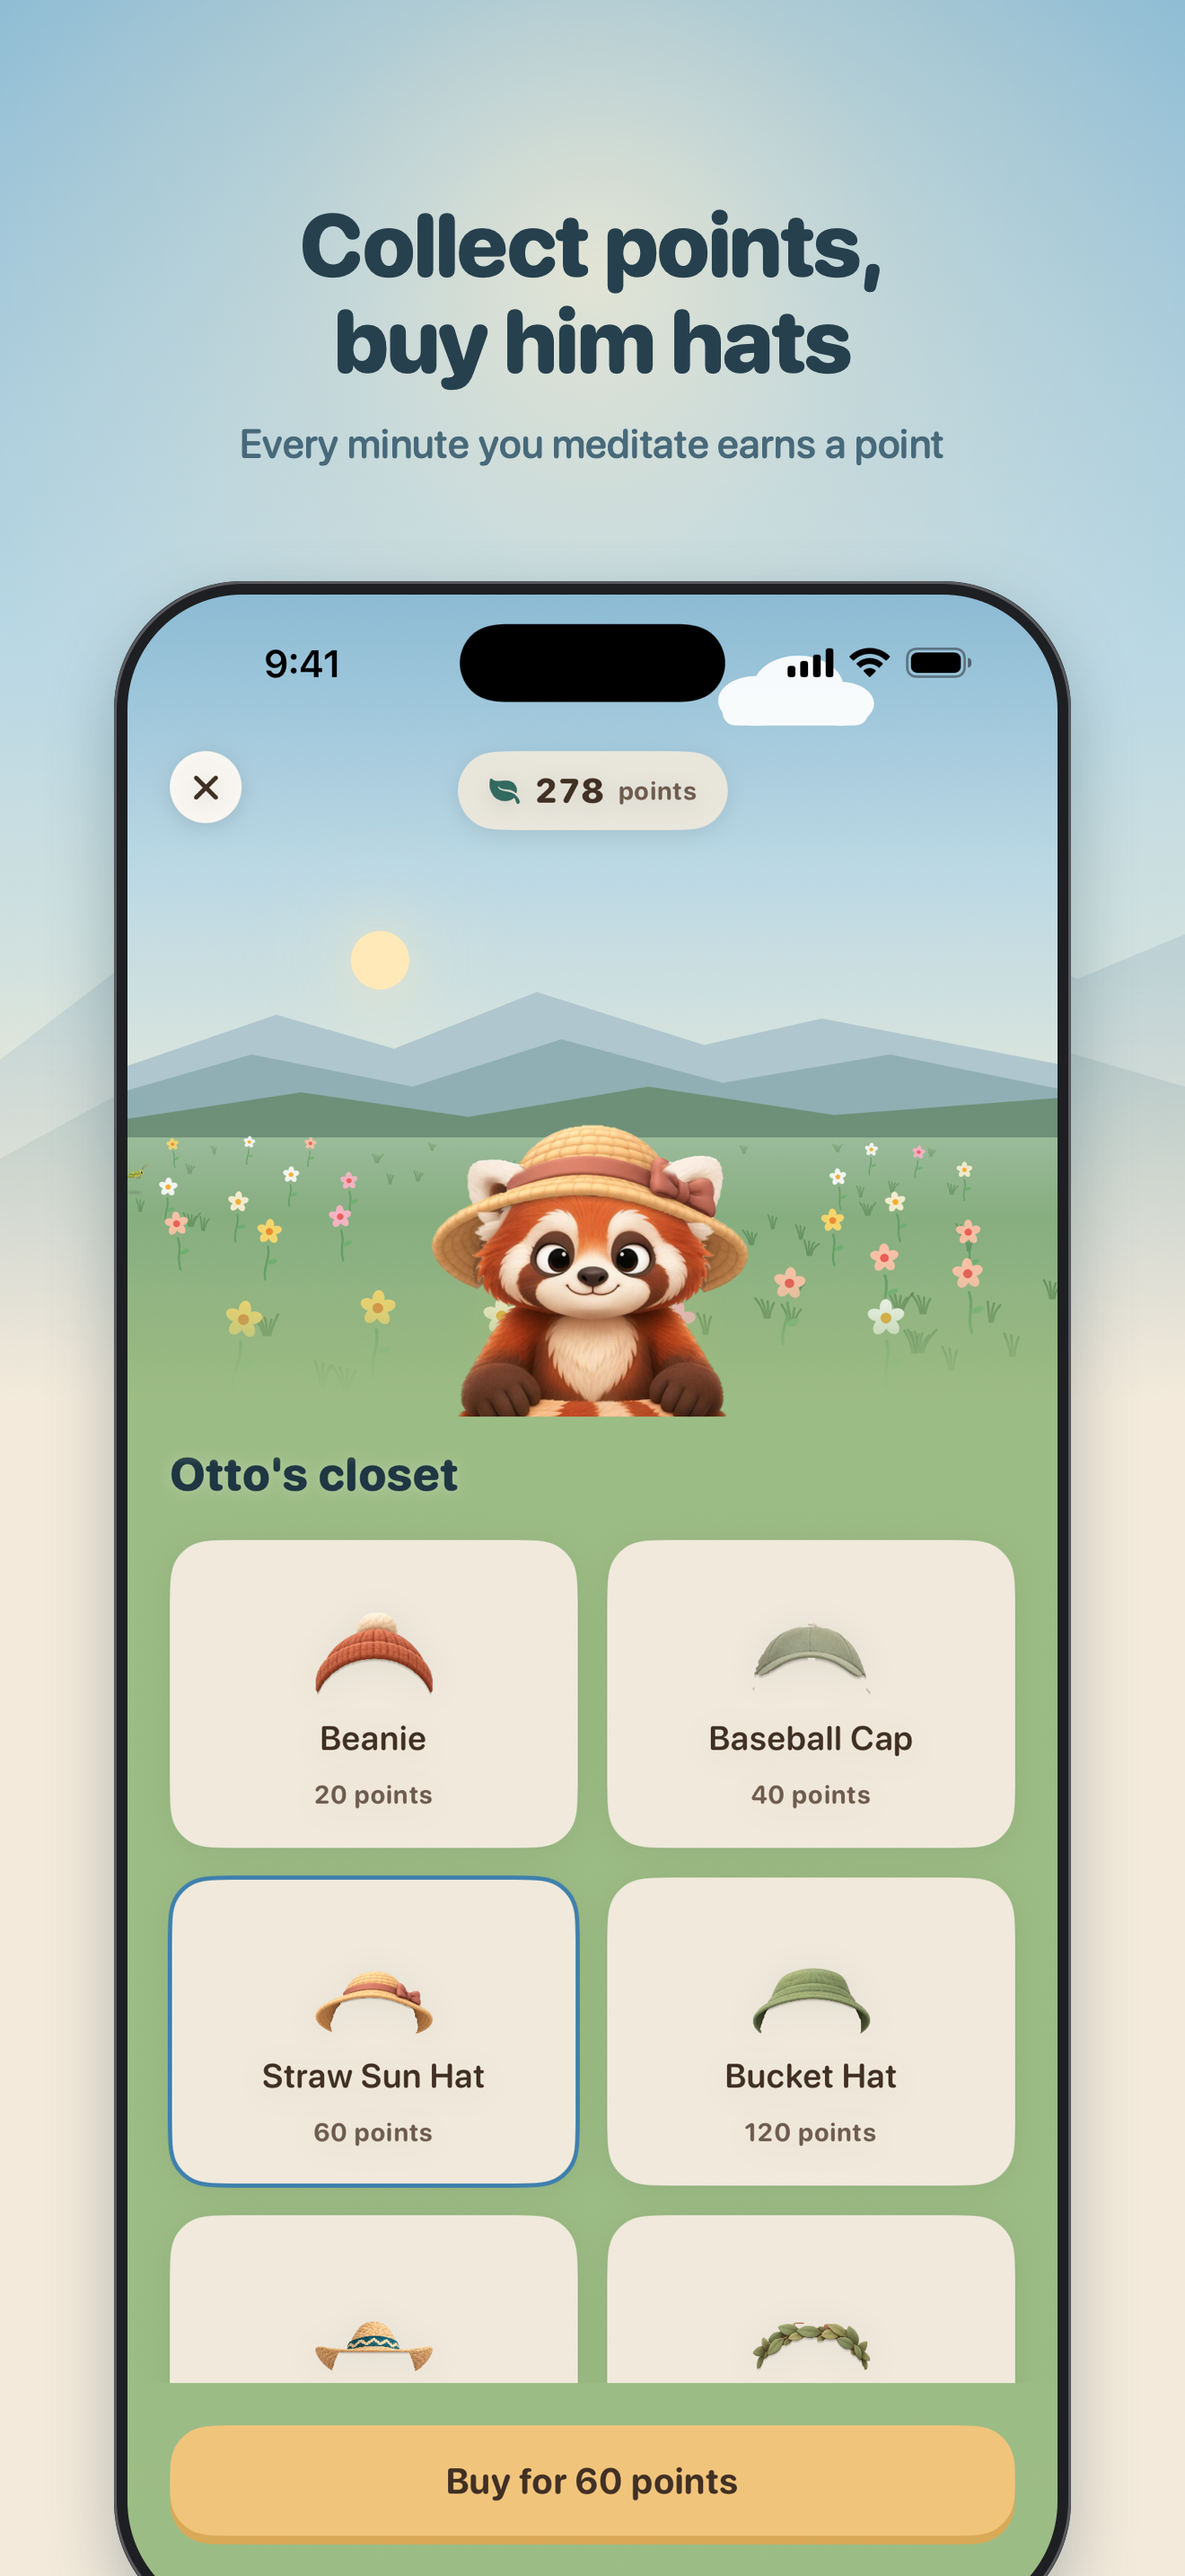
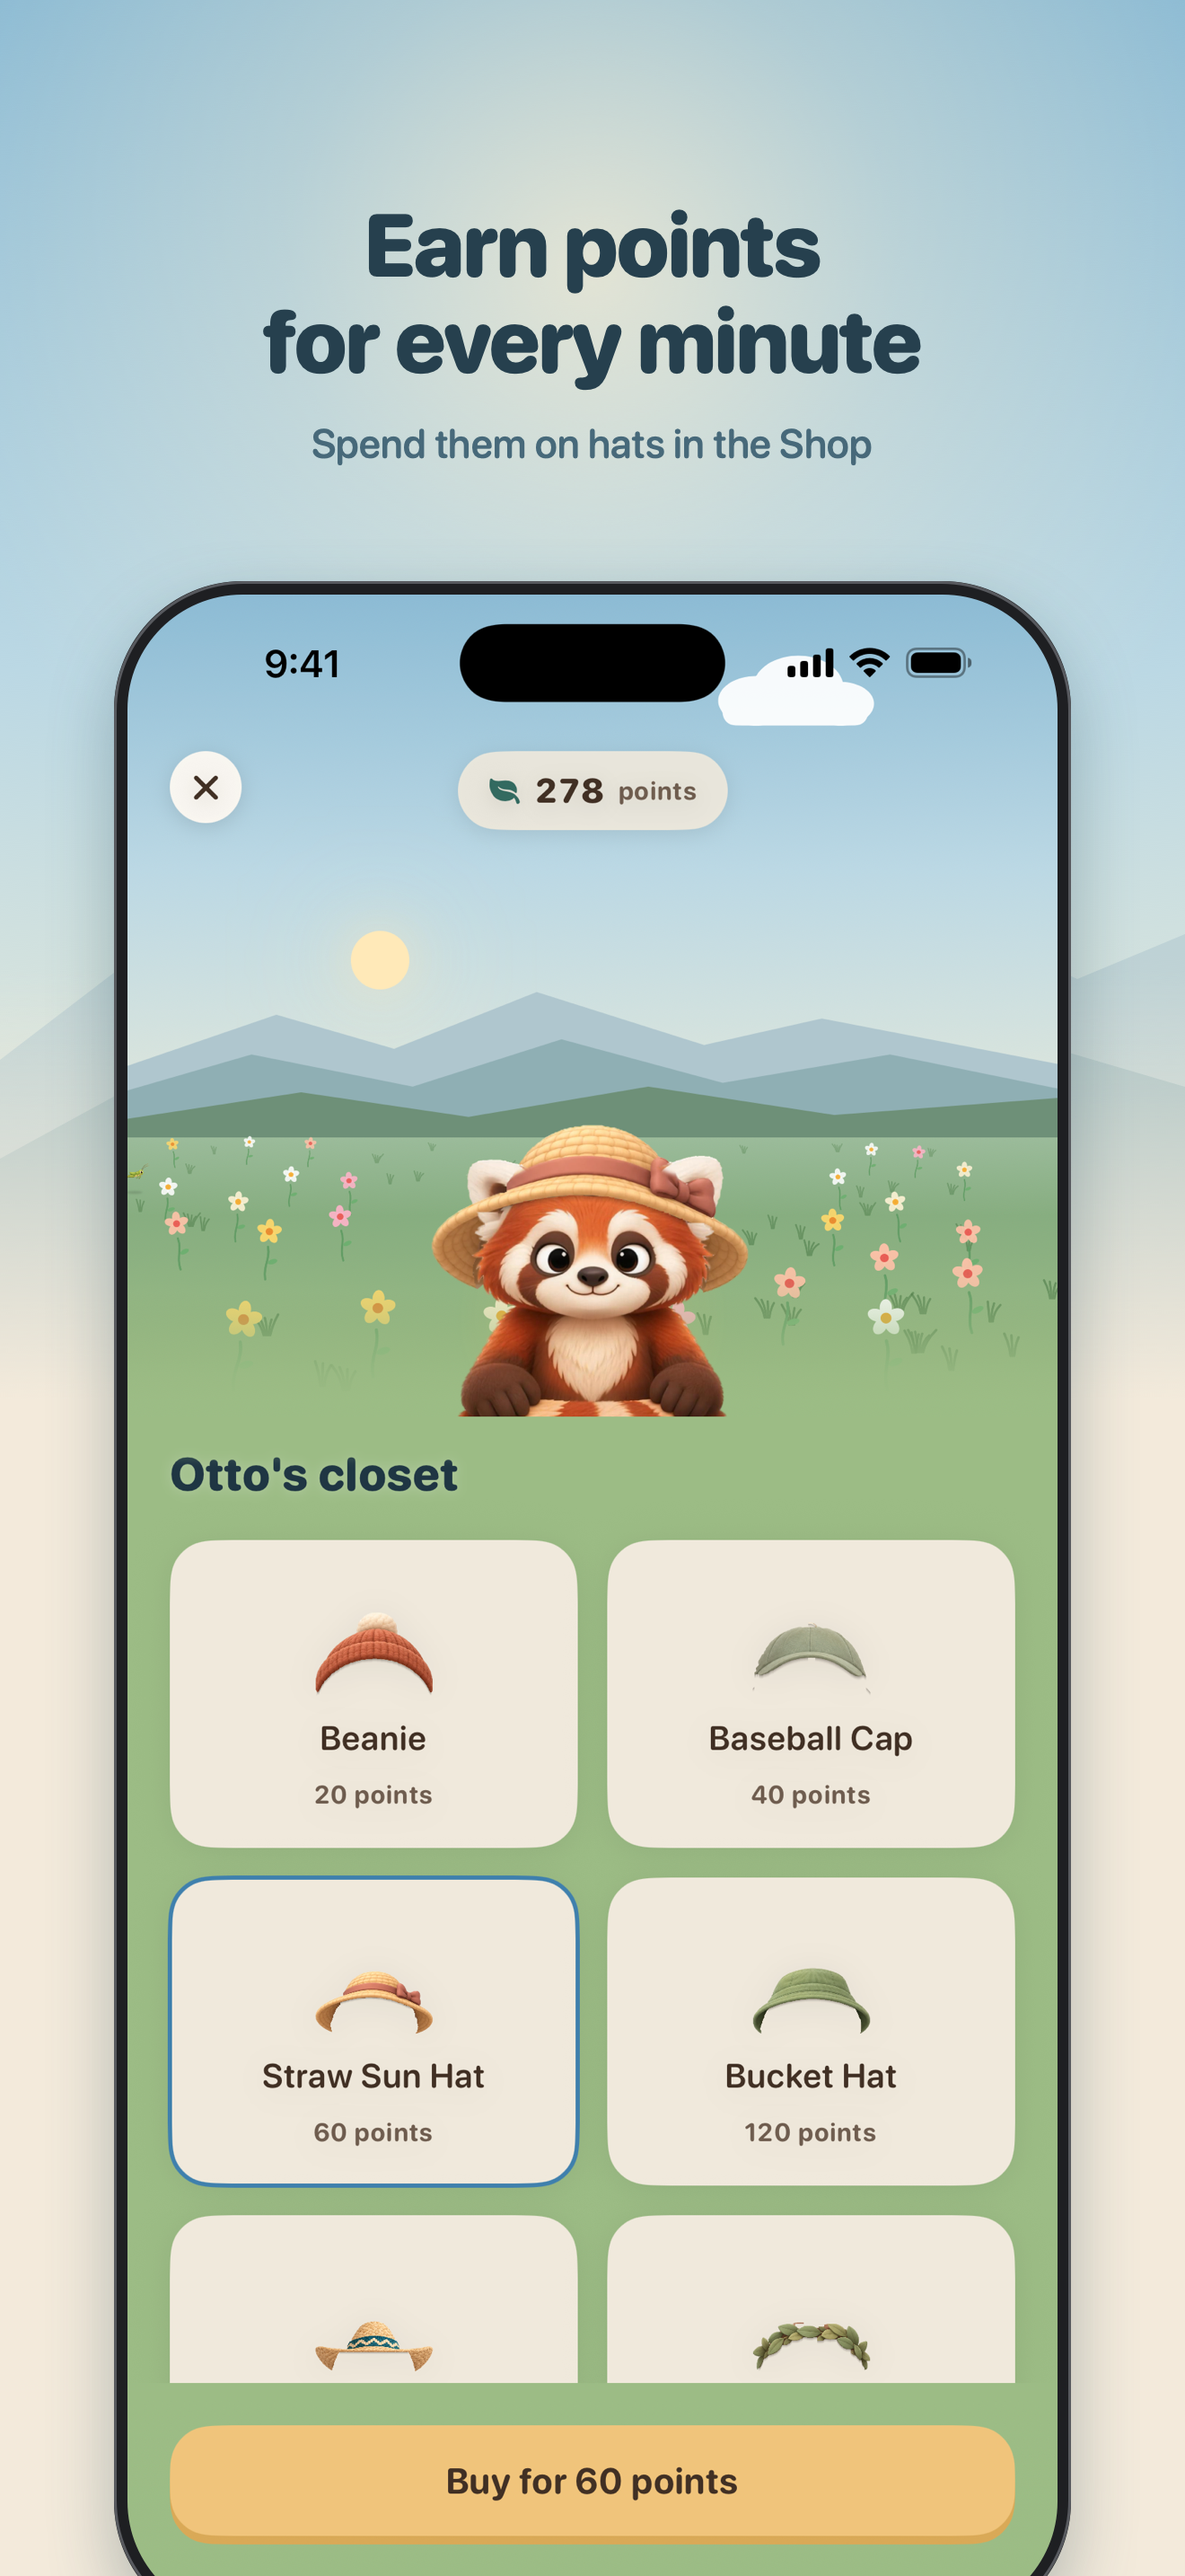
App Store captions: Otto named once, headlines say what the app does

Changed region(s): [[0.1864, 0.0621, 0.8076, 0.1862]]

diff --git a/marketing/APP_STORE_PASTE.md b/marketing/APP_STORE_PASTE.md
@@ -295,6 +295,8 @@ iPhone 17 Pro Max simulator from a Debug build with `STORE_SHOTS=1`, which
 hides the development-only test-mode cards and switches Otto's chat off as
 Release has it; how to regenerate is in `marketing/README.md`.
 
+**Captions rewritten 2026-11-16 (Melvin: "Too much Otto... hes the mascot not the entire app"): Otto is named once, in shot 1's subhead; every headline names what the app does.**
+
 **iPhone 6.9 inch (required). The listing leads with Otto, not Block**
 (Melvin, 2026-09-29: "Youre focusing too much on the blocking aspect, thats
 just one feature"). **Reshot 2026-11-13 (Melvin's lineup)** for the release
@@ -303,14 +305,14 @@ form, the forms picker and the feed added. Upload in this order:
 
 | # | File | Screen | Headline | Subhead |
 |---|---|---|---|---|
-| 1 | 01-otto | Home, Otto glowing at 100%, 7-day streak | Meditate consistently with Otto | He glows brighter every day you do |
-| 2 | 02-next-form | Home scrolled to "Otto's next form" under the three tiles (red panda silhouette, 22 to go) | Otto evolves as you meditate | Every minute brings his next form closer |
-| 3 | 03-shield | A held app's block screen ("bruh."), Otto gold palette | Otto blocks your apps until you meditate | Open one too soon and he lets you know |
+| 1 | 01-otto | Home, Otto glowing at 100%, 7-day streak | Make meditation a daily habit | Your streak grows, and Otto glows a little brighter every day you meditate |
+| 2 | 02-next-form | Home scrolled to "Otto's next form" under the three tiles (red panda silhouette, 22 to go) | Unlock new forms as you meditate | Every minute brings the next one closer |
+| 3 | 03-shield | A held app's block screen ("bruh."), Otto gold palette | Block distracting apps until you meditate | Meditate for a minute and they open for the rest of the day |
 | 4 | 04-friends | The Friends feed: Priya's "Evening meditation" with photos, Maya's own post | Meditate with friends | Post your sessions and cheer each other on |
-| 5 | 05-shop | The Shop, the red panda trying on the Straw Sun Hat | Collect points, buy him hats | Every minute you meditate earns a point |
-| 6 | 06-forms | Otto's forms: sloth, red panda (worn), tiger, phoenix, dragon at 5,500 | Five forms of Otto to unlock | A red panda, a tiger, a phoenix and a dragon |
-| 7 | 07-texts | Otto's text thread after Ask Otto | Otto texts you before you scroll | Open a held app and he asks you to meditate first |
-| 8 | 08-widget | Home screen with the medium and two small widgets (unchanged from the 2026-10-13 set) | Otto on your home screen | Your streak and his glow at a glance |
+| 5 | 05-shop | The Shop, the red panda trying on the Straw Sun Hat | Earn points for every minute | Spend them on hats in the Shop |
+| 6 | 06-forms | Otto's forms: sloth, red panda (worn), tiger, phoenix, dragon at 5,500 | Five forms to collect | A sloth, a red panda, a tiger, a phoenix and a dragon |
+| 7 | 07-texts | Otto's text thread after Ask Otto | A nudge before you scroll | Open a held app and get a text asking you to meditate first |
+| 8 | 08-widget | Home screen with the medium and two small widgets (unchanged from the 2026-10-13 set) | Your streak on your home screen | Your practice at a glance, all day long |
 | 9 | 09-sounds | The plus: the Ready screen's sound list | Meditate your way | Silence, nature, tones, a guided journey or your own audio |
 | 10 | 10-watch | A measured Watch session's results | Wear an Apple Watch for more | Heart rate, stillness and breathing, after each session |
 
